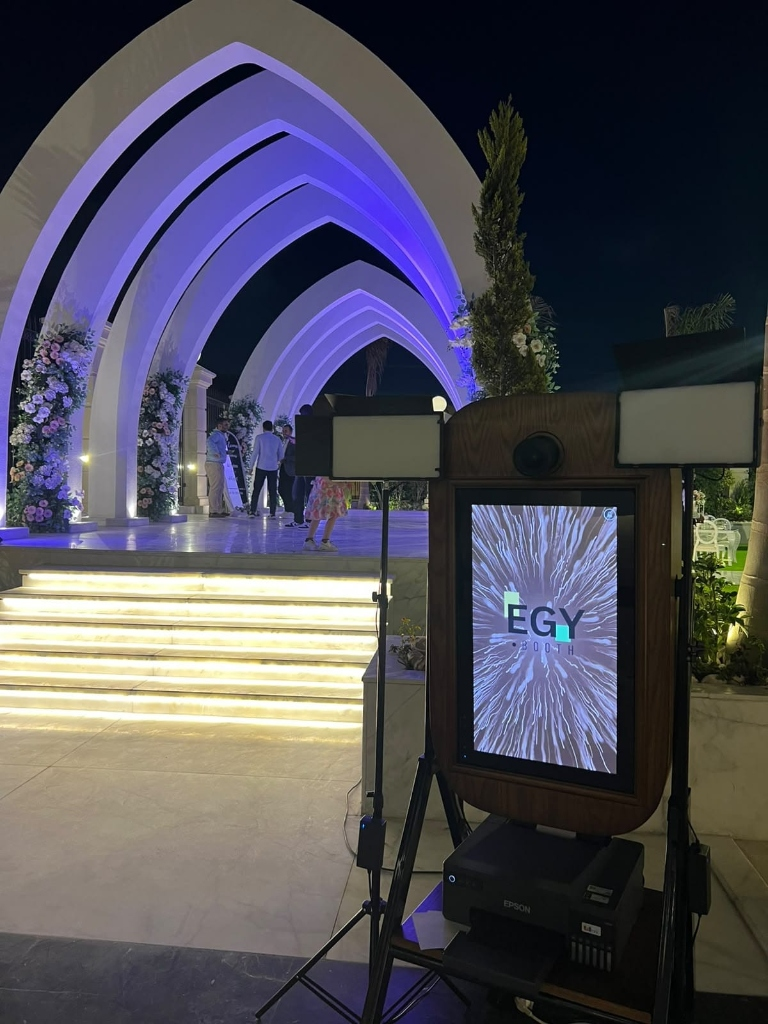
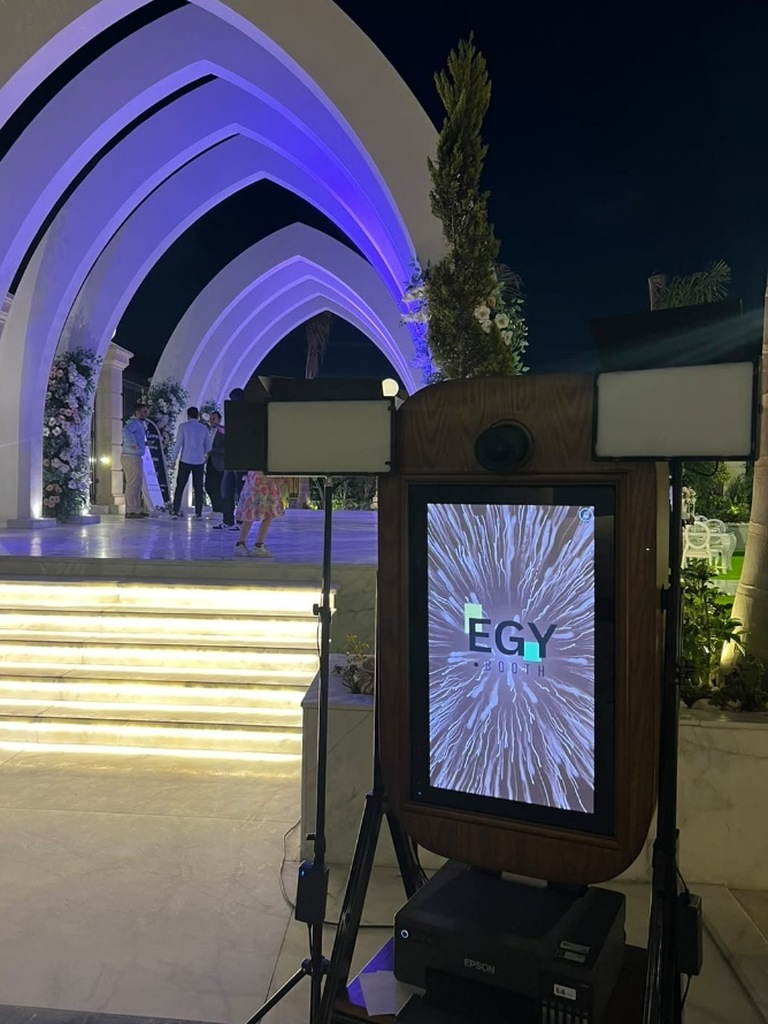
Remove dress code section, center photo booth image, update family names to Abdullhuq and Khaled, make guestbook wishes cloud-persistent

diff --git a/script.js b/script.js
@@ -328,26 +328,43 @@ document.addEventListener('DOMContentLoaded', () => {
     giftModal.classList.remove('active');
   });
 
-  // 6. Wishes Guestbook Logic
-  const defaultWishes = [];
-  
-  function getWishes() {
-    const local = localStorage.getItem('wedding_wishes_v3');
+  // 6. Wishes Guestbook Logic (Persistent Cloud Storage + Instant Local Cache)
+  const CLOUD_WISHES_URL = 'https://api.restful-api.dev/objects/ff808181a09d98f701a0aa90d72d1d69';
+  const defaultWishes = [
+    {
+      name: 'زينب & مصطفى',
+      text: 'نورتم فرحتنا وشاركتونا أجمل يوم في حياتنا، شكراً لكل كلمة حلوة وتهنئة من قلوبكم! ❤✨',
+      date: '١٦ أكتوبر ٢٠٢٦'
+    }
+  ];
+
+  function getLocalWishes() {
+    const local = localStorage.getItem('wedding_wishes_v5');
     if (local) {
       try {
-        return JSON.parse(local);
+        const parsed = JSON.parse(local);
+        if (Array.isArray(parsed) && parsed.length > 0) return parsed;
       } catch (e) {
-        return [];
+        return defaultWishes;
       }
     }
     return defaultWishes;
   }
-  
+
+  function saveLocalWishes(list) {
+    try {
+      localStorage.setItem('wedding_wishes_v5', JSON.stringify(list));
+    } catch (e) {
+      console.error('LocalStorage save error:', e);
+    }
+  }
+
+  let allWishes = getLocalWishes();
+
   function renderWishes() {
-    const list = getWishes();
     wishesFeed.innerHTML = '';
     
-    if (list.length === 0) {
+    if (allWishes.length === 0) {
       const emptyText = isRtl
         ? 'كن أول من يكتب تهنئة للعروسين في دفتر التهاني ❤✨'
         : 'Be the first to leave your congratulations for the couple! ❤✨';
@@ -359,32 +376,74 @@ document.addEventListener('DOMContentLoaded', () => {
       return;
     }
 
-    list.forEach(item => {
+    allWishes.forEach(item => {
       const wishDiv = document.createElement('div');
       wishDiv.className = 'wish-item';
       wishDiv.innerHTML = `
         <div class="wish-header">
           <span class="wish-name">${escapeHTML(item.name)}</span>
-          <span class="wish-date">${item.date}</span>
+          <span class="wish-date">${escapeHTML(item.date)}</span>
         </div>
         <p class="wish-text">${escapeHTML(item.text)}</p>
       `;
       wishesFeed.appendChild(wishDiv);
     });
   }
-  
-  function addWishToList(name, text) {
-    const list = getWishes();
-    const newWishItem = {
-      name: name,
-      text: text,
-      date: isRtl ? 'الآن' : 'Just now'
-    };
-    list.unshift(newWishItem);
-    localStorage.setItem('wedding_wishes_v3', JSON.stringify(list));
-    renderWishes();
+
+  async function syncWishesFromCloud() {
+    try {
+      const res = await fetch(CLOUD_WISHES_URL);
+      if (res.ok) {
+        const json = await res.json();
+        if (json && json.data && Array.isArray(json.data.wishes)) {
+          allWishes = json.data.wishes;
+          saveLocalWishes(allWishes);
+          renderWishes();
+        }
+      }
+    } catch (err) {
+      console.log('Using local wishes fallback:', err);
+    }
   }
-  
+
+  async function pushWishesToCloud(list) {
+    try {
+      await fetch(CLOUD_WISHES_URL, {
+        method: 'PUT',
+        headers: {
+          'Content-Type': 'application/json'
+        },
+        body: JSON.stringify({
+          name: 'mostafa_and_zienab_wedding_wishes_2026',
+          data: {
+            wishes: list
+          }
+        })
+      });
+    } catch (err) {
+      console.error('Failed to sync wish to cloud:', err);
+    }
+  }
+
+  function addWishToList(name, text) {
+    const formattedDate = new Intl.DateTimeFormat(isRtl ? 'ar-EG' : 'en-US', {
+      day: 'numeric',
+      month: 'short',
+      year: 'numeric'
+    }).format(new Date());
+
+    const newWishItem = {
+      name: name.trim(),
+      text: text.trim(),
+      date: formattedDate
+    };
+
+    allWishes.unshift(newWishItem);
+    saveLocalWishes(allWishes);
+    renderWishes();
+    pushWishesToCloud(allWishes);
+  }
+
   wishesForm.addEventListener('submit', (e) => {
     e.preventDefault();
     const wName = document.getElementById('wish-name').value;
@@ -395,8 +454,9 @@ document.addEventListener('DOMContentLoaded', () => {
       wishesForm.reset();
     }
   });
-  
+
   renderWishes();
+  syncWishesFromCloud();
 
   // Helper utility to escape HTML
   function escapeHTML(str) {
@@ -685,7 +745,6 @@ document.addEventListener('DOMContentLoaded', () => {
       '.gallery-container',
       '.gallery-share-box',
       '.venue-location-section',
-      '.dresscode-section',
       '.photobooth-section',
       '.photobooth-card',
       '.wishes-section'

diff --git a/index.html b/index.html
@@ -8,7 +8,7 @@
   <link rel="preconnect" href="https://fonts.googleapis.com">
   <link rel="preconnect" href="https://fonts.gstatic.com" crossorigin>
   <link rel="stylesheet" href="https://fonts.googleapis.com/css2?family=Cairo:wght@300;400;500;600;700;800;900&family=EB+Garamond:ital,wght@0,400..800;1,400..800&family=Lora:ital,wght@0,400..700;1,400..700&family=Pattaya&family=Viaoda+Libre&family=Quicksand:wght@300;400;500;600;700&family=The+Nautigal:wght@400;700&display=swap">
-  <link rel="stylesheet" href="style.css?v=24">
+  <link rel="stylesheet" href="style.css?v=25">
 </head>
 <body>
 
@@ -180,8 +180,8 @@
               <span class="lang-ar">أهل العريس مع أهل العروسة</span>
             </span>
             <h3 class="families-title">
-              <span class="lang-en">Abdelhak Family &amp; Khaled Zaki Family</span>
-              <span class="lang-ar">عائلة عبدالحق مع عائلة خالد ذكي</span>
+              <span class="lang-en">Abdullhuq Family &amp; Khaled Family</span>
+              <span class="lang-ar">عائلة عبدالحق مع عائلة خالد</span>
             </h3>
           </div>
           
@@ -530,43 +530,7 @@
       </section>
 
 
-      <!-- Attire Dress Code Section -->
-      <section class="dresscode-section">
-        <span class="badge">
-          <span class="lang-en">Dress Code</span>
-          <span class="lang-ar">قواعد اللباس</span>
-        </span>
-        <h2 class="section-title">
-          <span class="lang-en">DRESS CODE</span>
-          <span class="lang-ar">قواعد اللباس والملابس</span>
-        </h2>
-        <p class="attire-description">
-          <span class="lang-en">None, but brown shades are preferred</span>
-          <span class="lang-ar">لا يوجد قواعد محددة، ولكن يفضل درجات اللون البني</span>
-        </p>
 
-        <div class="colors-swatch">
-          <div class="swatch-item">
-            <div class="swatch-circle" style="background-color: #3D2314;"></div>
-            <span class="swatch-label">Dark Brown</span>
-          </div>
-
-          <div class="swatch-item">
-            <div class="swatch-circle" style="background-color: #6F4E37;"></div>
-            <span class="swatch-label">Chestnut</span>
-          </div>
-
-          <div class="swatch-item">
-            <div class="swatch-circle" style="background-color: #C19A6B;"></div>
-            <span class="swatch-label">Camel</span>
-          </div>
-
-          <div class="swatch-item">
-            <div class="swatch-circle" style="background-color: #D2B48C; border: 1.5px solid #51141930;"></div>
-            <span class="swatch-label">Tan</span>
-          </div>
-        </div>
-      </section>
 
       <!-- Photo Booth Section -->
       <section class="photobooth-section">
@@ -820,6 +784,6 @@
 
   <!-- Anime.js Library for Smooth Scroll Animations -->
   <script src="https://cdnjs.cloudflare.com/ajax/libs/animejs/3.2.2/anime.min.js"></script>
-  <script src="script.js?v=24"></script>
+  <script src="script.js?v=25"></script>
 </body>
 </html>

diff --git a/style.css b/style.css
@@ -1040,61 +1040,6 @@ header .date {
   height: 14px;
 }
 
-/* Dress Code Section */
-.dresscode-section {
-  padding: 55px 24px;
-  border-bottom: 1px solid var(--border-color);
-  text-align: center;
-}
-
-.dresscode-section .section-title {
-  font-family: var(--font-viaoda);
-  font-size: 2rem;
-  color: #511419;
-}
-
-.dresscode-section .attire-description {
-  font-family: 'Times New Roman', serif;
-  font-style: italic;
-  font-size: 0.95rem;
-  color: rgba(81, 20, 25, 0.85);
-  margin-top: 10px;
-  margin-bottom: 25px;
-}
-
-.colors-swatch {
-  display: flex;
-  justify-content: center;
-  gap: 15px;
-  flex-wrap: wrap;
-}
-
-.swatch-item {
-  display: flex;
-  flex-direction: column;
-  align-items: center;
-  gap: 8px;
-}
-
-.swatch-circle {
-  width: 44px;
-  height: 44px;
-  border-radius: 50%;
-  box-shadow: 0 3px 8px rgba(0, 0, 0, 0.08);
-  transition: transform 0.2s;
-}
-
-.swatch-circle:hover {
-  transform: scale(1.1);
-}
-
-.swatch-label {
-  font-family: var(--font-sans);
-  font-size: 0.65rem;
-  font-weight: 600;
-  text-transform: uppercase;
-  letter-spacing: 1px;
-  color: var(--text-muted);
 }
 
 /* Timeline List inside Burgundy Card */
@@ -2086,7 +2031,7 @@ footer {
 }
 
 .photobooth-container {
-  max-width: 390px;
+  max-width: 400px;
   margin: 28px auto 0 auto;
 }
 
@@ -2097,6 +2042,8 @@ footer {
   box-shadow: 0 10px 35px rgba(81, 20, 25, 0.1);
   border: 1px solid rgba(81, 20, 25, 0.1);
   transition: transform 0.3s ease, box-shadow 0.3s ease;
+  margin: 0 auto;
+  text-align: center;
 }
 
 .photobooth-card:hover {
@@ -2107,16 +2054,18 @@ footer {
 .photobooth-img-wrapper {
   position: relative;
   aspect-ratio: 3/4;
-  max-height: 420px;
+  width: 100%;
   border-radius: 14px;
   overflow: hidden;
   box-shadow: inset 0 0 15px rgba(0, 0, 0, 0.08);
+  margin: 0 auto;
 }
 
 .photobooth-img-wrapper img {
   width: 100%;
   height: 100%;
   object-fit: cover;
+  object-position: center center;
   display: block;
 }
 
